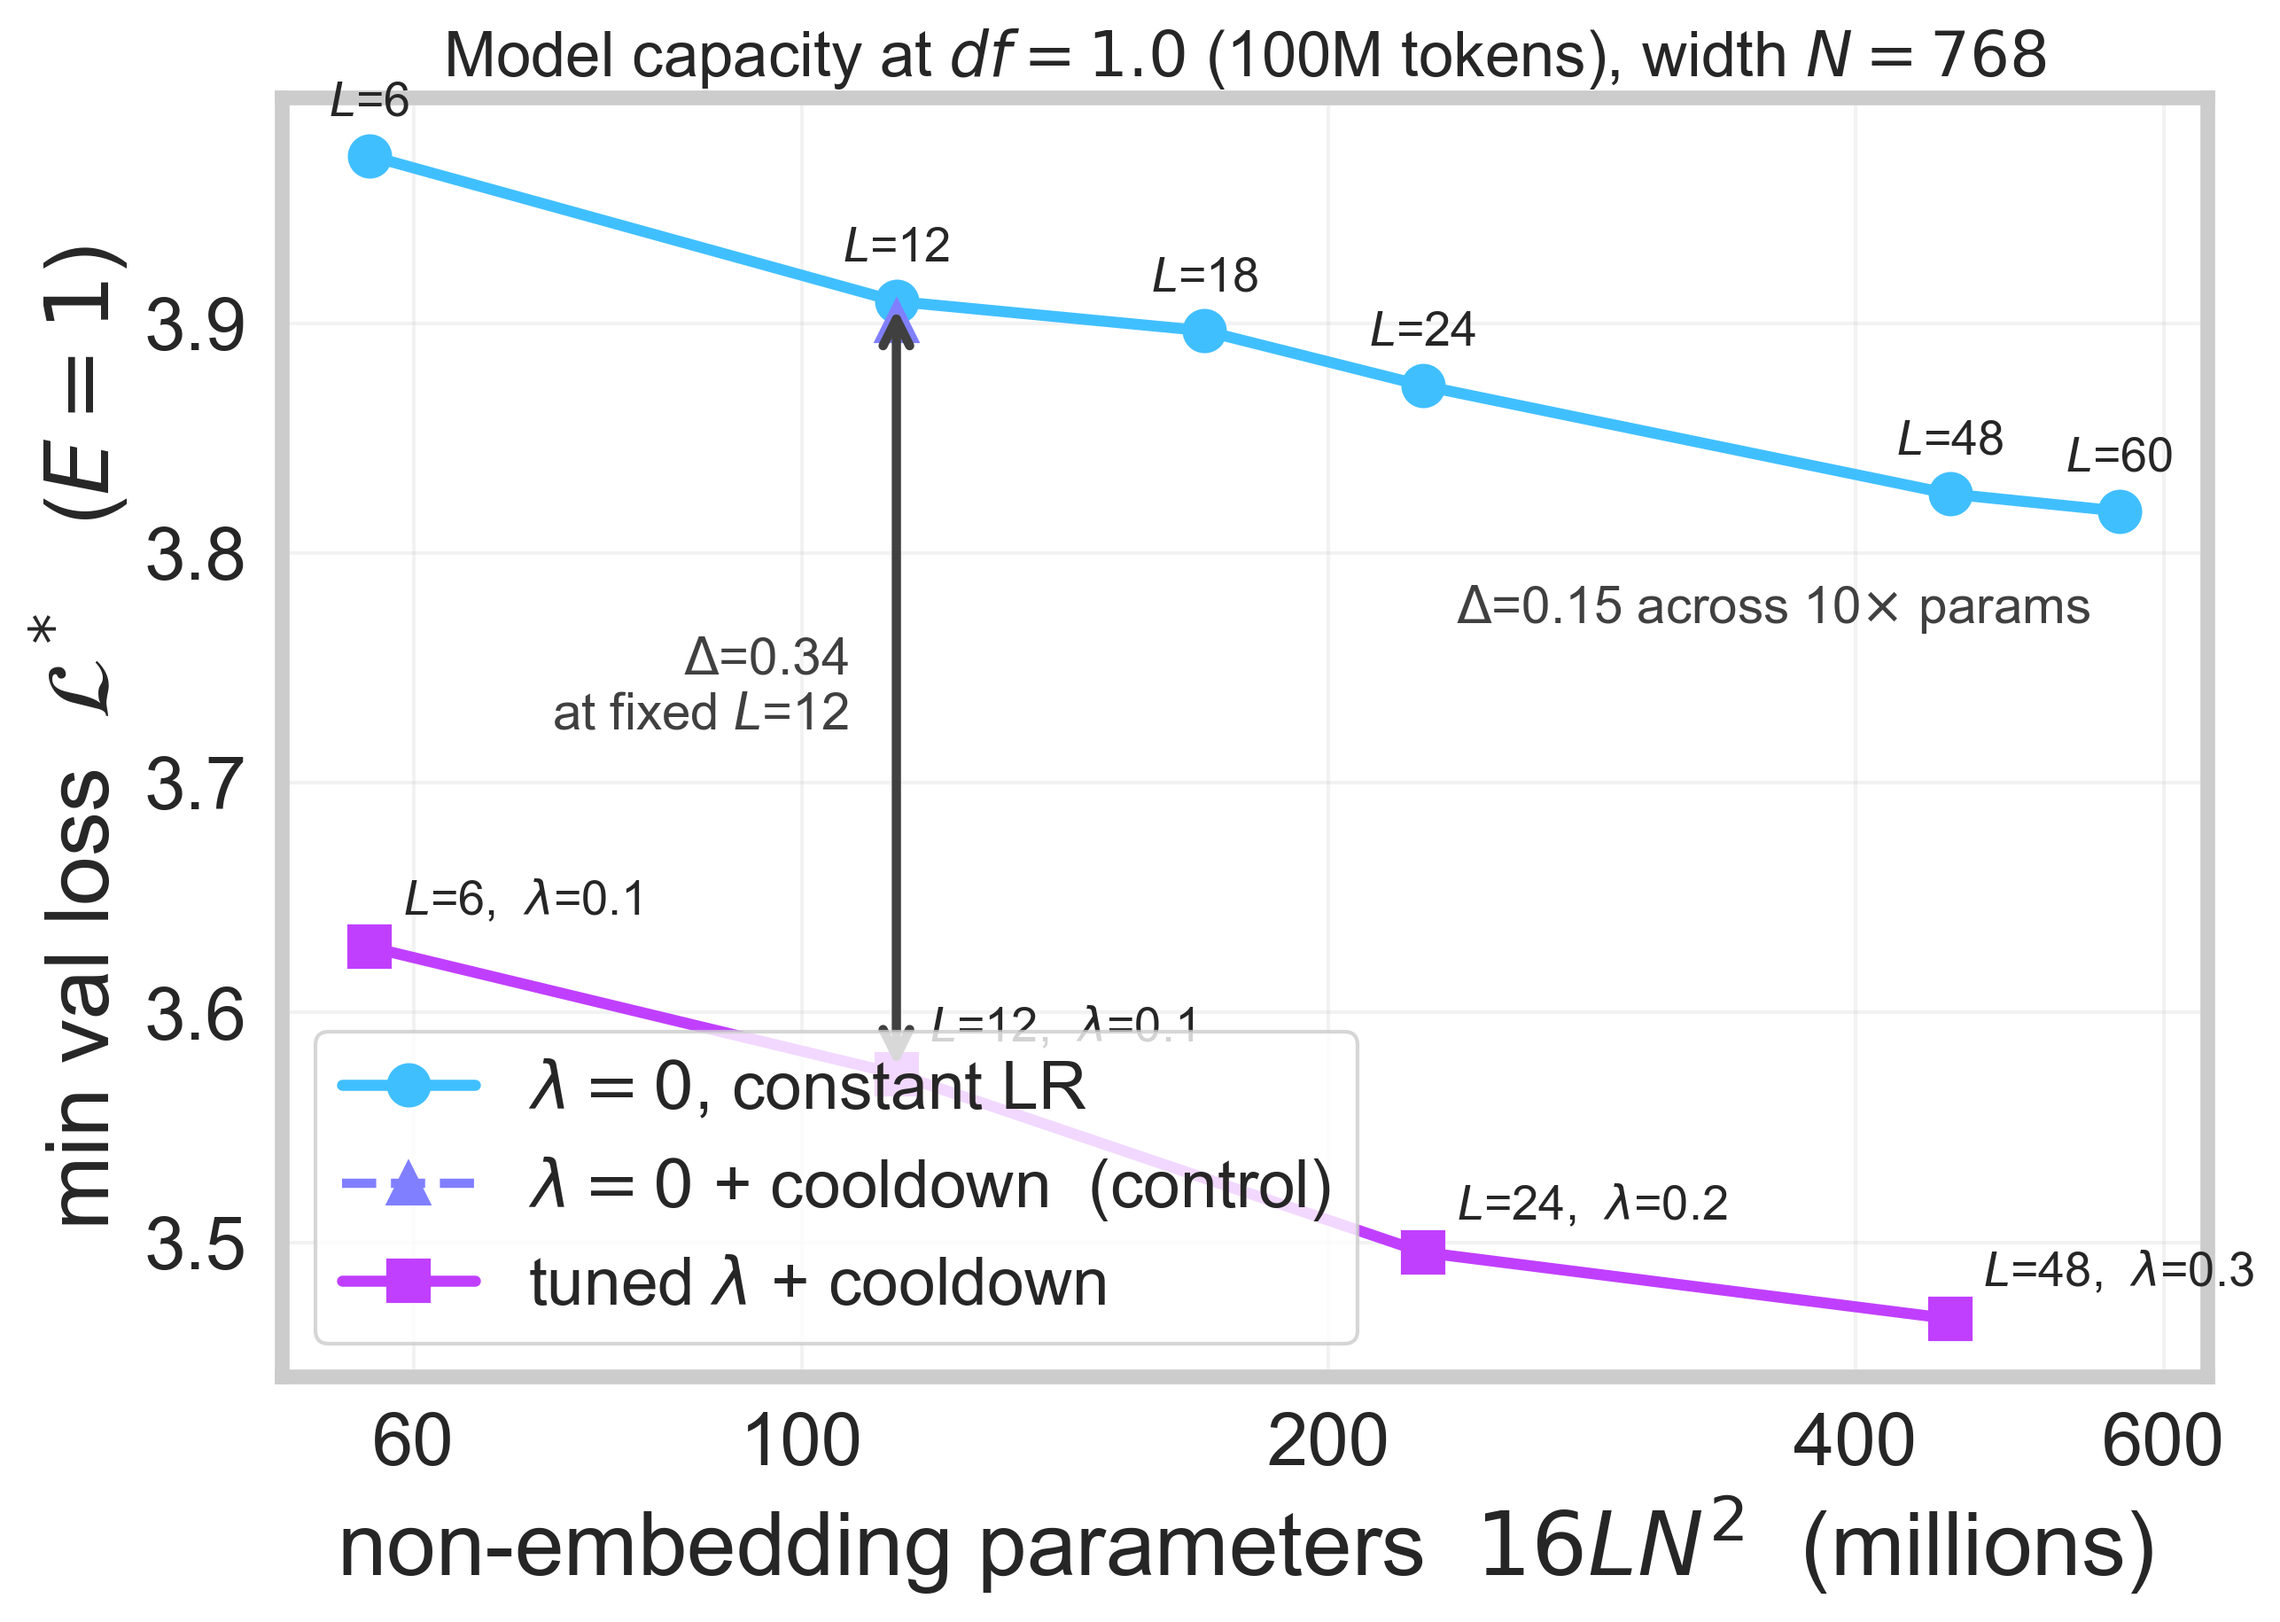
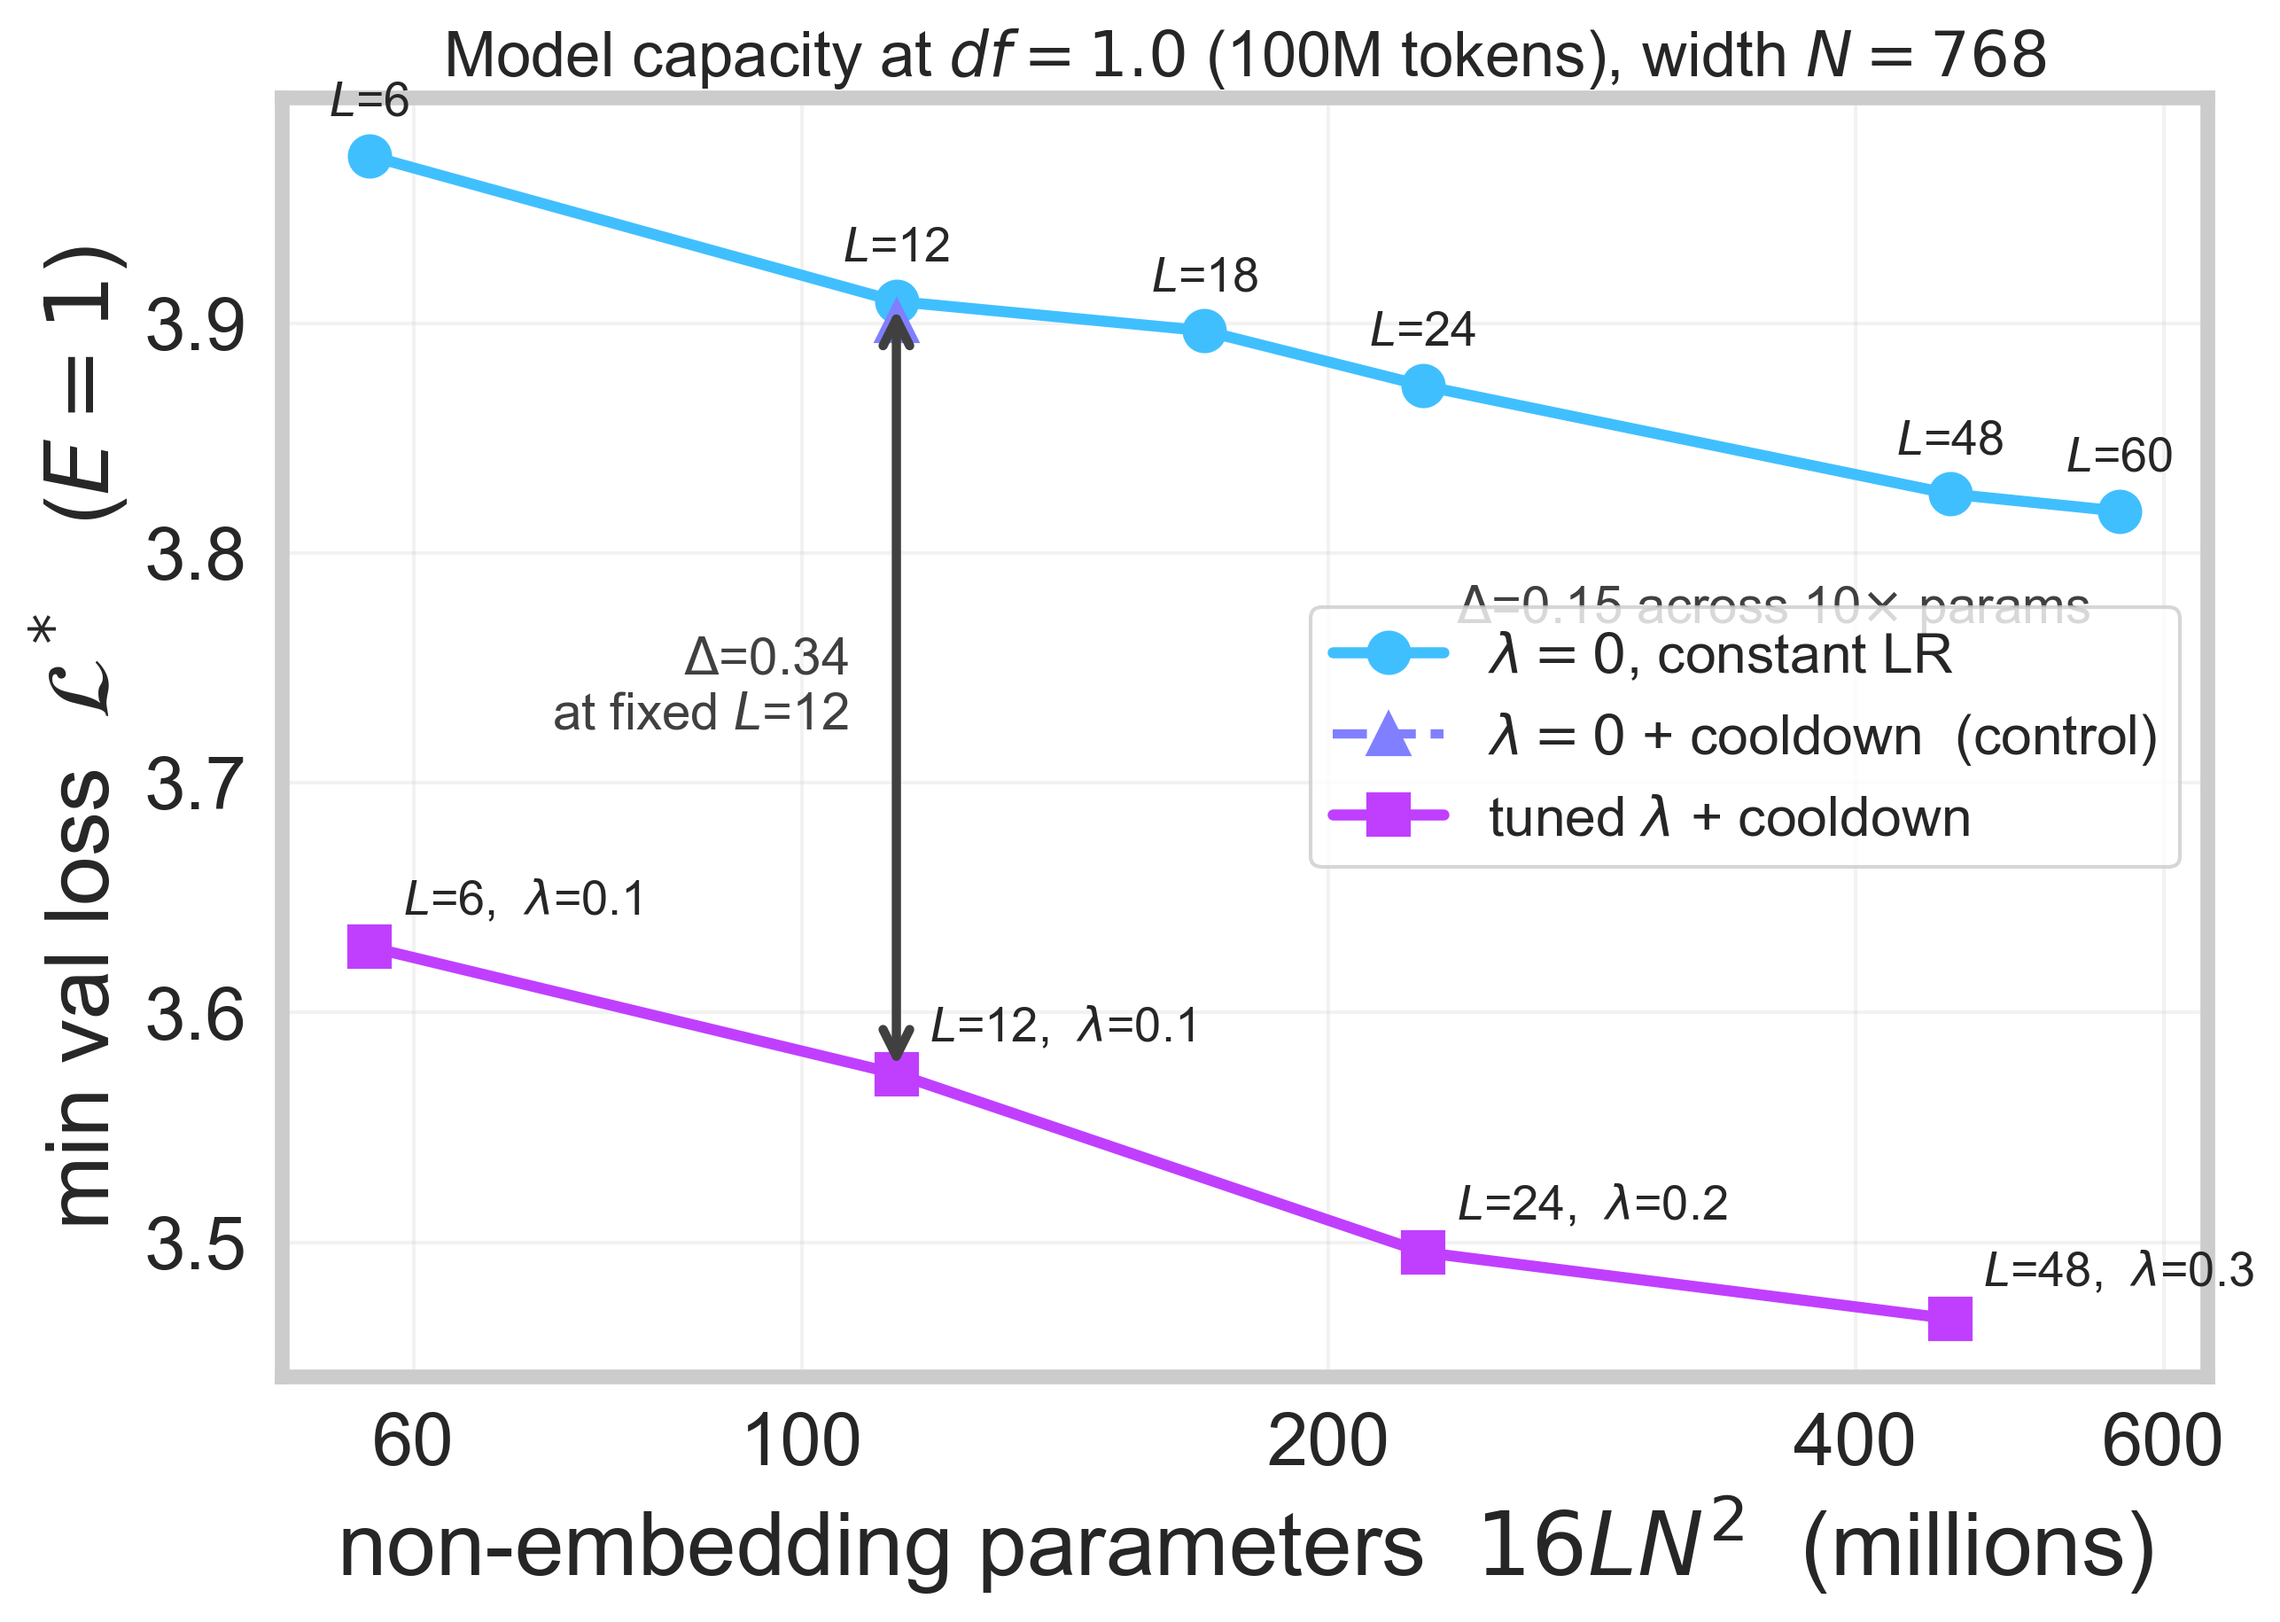
Capacity figure: reposition legend clear of the tuned-lambda series

diff --git a/experiments/analysis/expt_fig2_capacity_vs_size.py b/experiments/analysis/expt_fig2_capacity_vs_size.py
@@ -203,7 +203,7 @@ def main() -> None:
     ax.set_ylabel(r"min val loss  $\mathcal{L}^*$   ($E=1$)")
     ax.set_title(f"Model capacity at $df=1.0$ (100M tokens), width $N={WIDTH}$",
                  fontsize=17)
-    ax.legend(frameon=True, loc="lower left")
+    ax.legend(frameon=True, loc="center right", fontsize=15)
     fig.tight_layout()
 
     OUTDIR.mkdir(parents=True, exist_ok=True)
